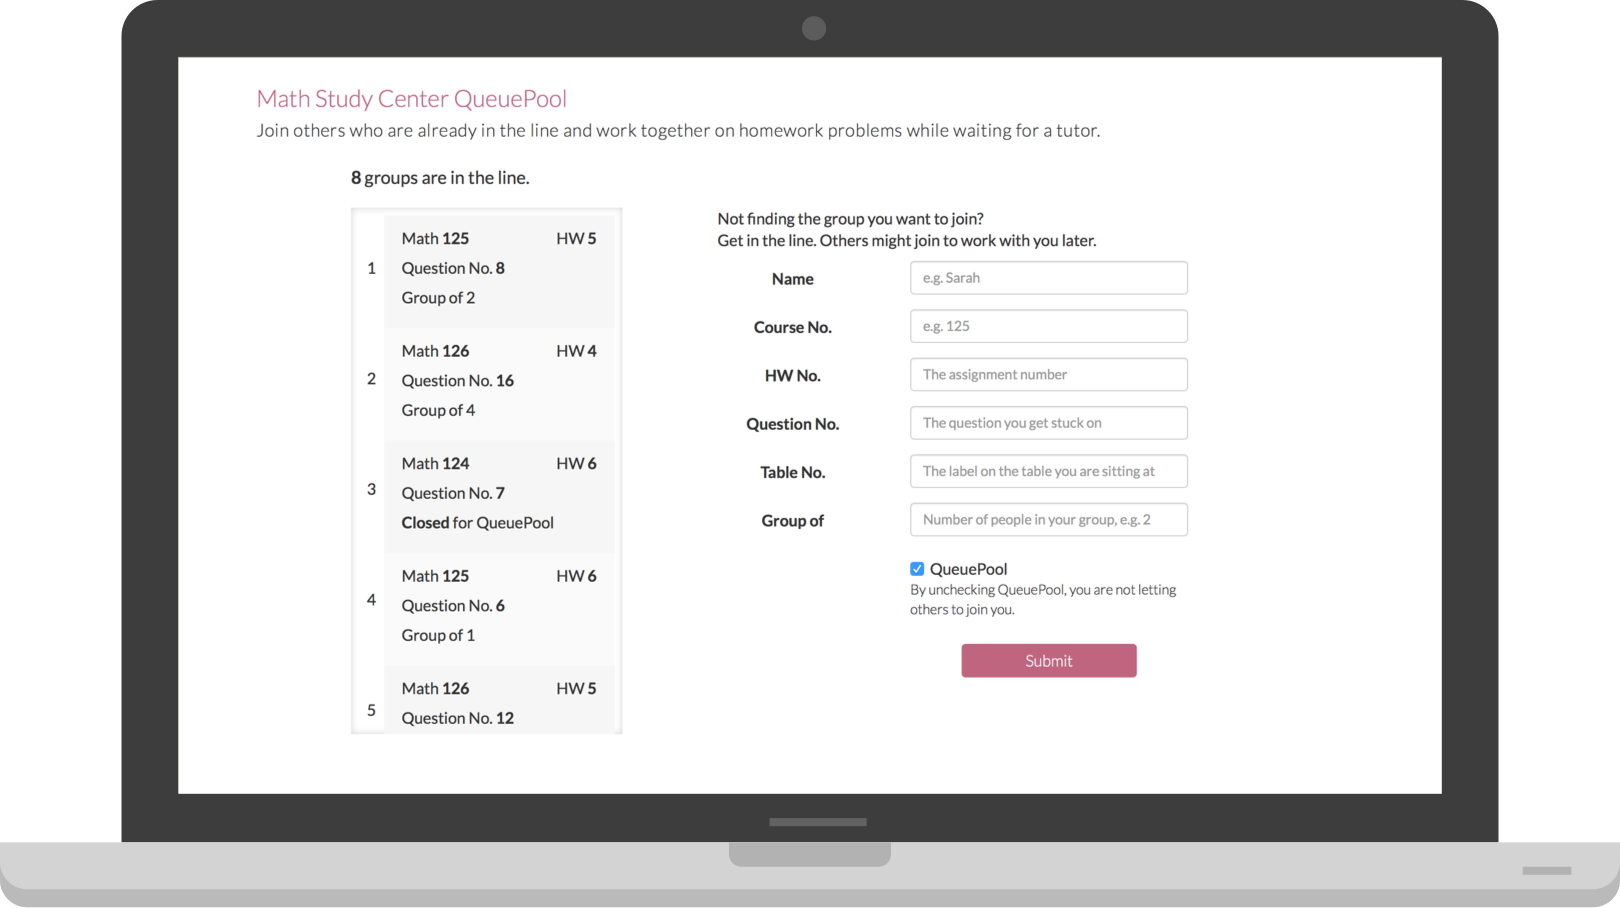
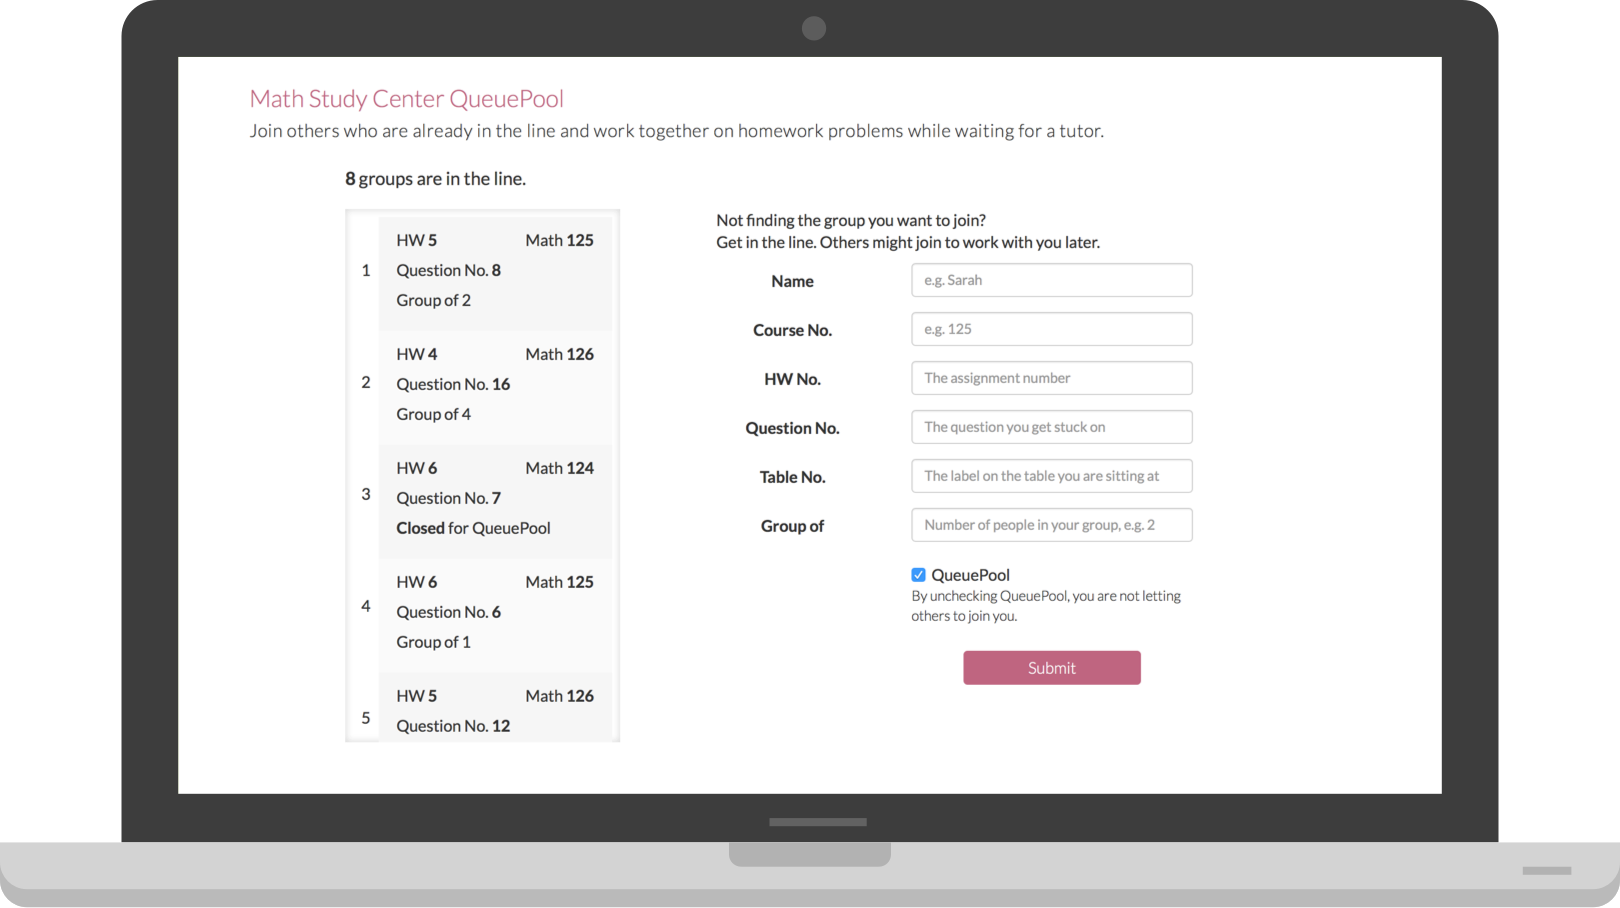
refine ppool

diff --git a/qpool_prototype/queuepool.html b/qpool_prototype/queuepool.html
@@ -70,8 +70,8 @@
                     <li>
                         <div class="line-item">
                                 <div class="line-item-info">
-                                    <p class="info_course">Math <strong>125</strong></p>
                                     <p class="info_hw">HW <strong>5</strong></p>
+                                    <p class="info_course">Math <strong>125</strong></p>
                                     <p class="info_q">Question No. <strong>8</strong></p>
                                     <p class="info_group">Group of 2</p>
                                 </div>
@@ -82,8 +82,8 @@
                     <li>
                         <div class="line-item">
                                 <div class="line-item-info">
-                                    <p class="info_course">Math <strong>126</strong></p>
                                     <p class="info_hw">HW <strong>4</strong></p>
+                                    <p class="info_course">Math <strong>126</strong></p>
                                     <p class="info_q">Question No. <strong>16</strong></p>
                                     <p class="info_group">Group of 4</p>
                                 </div>
@@ -94,8 +94,8 @@
                     <li>
                         <div class="line-item">
                                 <div class="line-item-info">
-                                    <p class="info_course">Math <strong>124</strong></p>
                                     <p class="info_hw">HW <strong>6</strong></p>
+                                    <p class="info_course">Math <strong>124</strong></p>
                                     <p class="info_q">Question No. <strong>7</strong></p>
                                     <p class="info_group"><strong>Closed</strong> for QueuePool</p>
                                 </div>
@@ -104,8 +104,8 @@
                     <li>
                         <div class="line-item">
                                 <div class="line-item-info">
-                                    <p class="info_course">Math <strong>125</strong></p>
                                     <p class="info_hw">HW <strong>6</strong></p>
+                                    <p class="info_course">Math <strong>125</strong></p>
                                     <p class="info_q">Question No. <strong>6</strong></p>
                                     <p class="info_group">Group of 1</p>
                                 </div>
@@ -116,8 +116,8 @@
                     <li>
                         <div class="line-item">
                                 <div class="line-item-info">
-                                    <p class="info_course">Math <strong>126</strong></p>
                                     <p class="info_hw">HW <strong>5</strong></p>
+                                    <p class="info_course">Math <strong>126</strong></p>
                                     <p class="info_q">Question No. <strong>12</strong></p>
                                     <p class="info_group">Group of 2</p>
                                 </div>
@@ -128,8 +128,8 @@
                     <li>
                         <div class="line-item">
                                 <div class="line-item-info">
-                                    <p class="info_course">Math <strong>126</strong></p>
                                     <p class="info_hw">HW <strong>4</strong></p>
+                                    <p class="info_course">Math <strong>126</strong></p>
                                     <p class="info_q">Question No. <strong>11</strong></p>
                                     <p class="info_group"><strong>Closed</strong> for QueuePool</p>
                                 </div>
@@ -138,8 +138,8 @@
                     <li>
                         <div class="line-item">
                                 <div class="line-item-info">
-                                    <p class="info_course">Math <strong>126</strong></p>
                                     <p class="info_hw">HW <strong>5</strong></p>
+                                    <p class="info_course">Math <strong>126</strong></p>
                                     <p class="info_q">Question No. <strong>18</strong></p>
                                     <p class="info_group">Group of 1</p>
                                 </div>
@@ -150,8 +150,8 @@
                     <li>
                         <div class="line-item">
                                 <div class="line-item-info">
-                                    <p class="info_course">Math <strong>124</strong></p>
                                     <p class="info_hw">HW <strong>5</strong></p>
+                                    <p class="info_course">Math <strong>124</strong></p>
                                     <p class="info_q">Question No. <strong>20</strong></p>
                                     <p class="info_group">Group of 1</p>
                                 </div>

diff --git a/qpool.html b/qpool.html
@@ -110,25 +110,21 @@
                     <div class="col-sm-offset-3 col-sm-6 col-xs-12 vpadding-sm">
                         <img class="img-responsive" src="assets/math/lineup.png">
                     </div>
-                </div>  
-				<!--<div class="row hpadding-sm persona">
-                    <h4 class="col-xs-12 vpadding-sm">Persona Scenario</h4>
-                    <div class="col-xs-12 vpadding-sm">
-                        <p>Sally is a freshman at University of Washington. She is taking MATH 124, Intro to Calculus.</p>
-                    </div>
-                    <div class="col-xs-12 hpadding-sm vpadding-sm">
-                        <img class="img-responsive center" src="assets/math/qpool_scenario1.png">
-                        <img class="img-responsive center" src="assets/math/qpool_scenario2.png">
-                    </div>
-				</div>-->
+                </div>
             </div>
 		</section>
       
         <section class="vpadding">
             <div class="container-fluid">
                 <div class="row">
-                    <div class="col-sm-offset-1 col-sm-10 col-xs-12 vpadding-sm">
-                        <p>We presented the redesign on World Usability Day 2014 at University of Washington. Fascinated by the topic of our presentation, many UW students stopped by and provided helpful feedbacks on our design. Most feedbacks were around the level of control being too little. They suggested being passively grouped with others by the system would not significantly make working together easier. It's a rare case that one can find two persons getting stuck on an exact same homework problem around the same time. Therefore, we refined the design to address the issue, advocating for a more well-informed and self-directed experience.</p>
+                    <div class="col-sm-offset-1 col-sm-5 vpadding-sm hpadding-sm">
+                        <img class="img-responsive" src="assets/math/mockup1.png">
+                    </div>
+                    <div class="col-sm-5 vpadding-sm hpadding-sm">
+                        <img class="img-responsive" src="assets/math/mockup2.png">
+                    </div>
+                    <div class="col-sm-offset-1 col-sm-10 col-xs-12 vpadding-sm hpadding-sm">
+                        <p>We presented the redesign on World Usability Day 2014 at University of Washington. Fascinated by the topic of our presentation, many UW students stopped by and provided helpful feedbacks on our design. Many of them suggested being passively grouped with others by the system would not significantly make working together easier. It's a rare case that one can find two persons getting stuck on an exact same homework problem around the same time. Therefore, we refined the design to address the issue, advocating for a more autonomous experience.</p>
                     </div>
                 </div>
             </div>
@@ -136,10 +132,17 @@
         
         <section class="vpadding prototype">
             <div class="container-fluid">
+                <div class="row">
+                    <h2 class="col-xs-12 vpadding-sm">Be better informed.</h2>
+                    <h4 class="col-xs-12 vpadding-sm">A more autonomous experience requires more provided information.</h4>
+                    <div class="col-sm-offset-1 col-sm-10 col-xs-12 hpadding-sm vpadding-sm">
+                        <p>The scrollable list on the left provides enough information of each group in line so that students can decide if they want to work together with one of those groups. We learnt that students are not necessarily looking for others who are working on the exact same problem as they do, but still would like to join someone who are working on the same homework assignment. Thus students identify groups they would consider joining by course number and homework number.</p>
+					</div>
+                </div>
                 <div class="row prototype_thm">
-                       
-                    <div class="col-sm-offset-2 col-sm-8 col-xs-offset-1 col-xs-10 hpadding-lg vpadding-sm">
-                        <a href=""><img class="img-responsive" src="assets/math/prototype.png"></a>
+                    <div class="col-sm-offset-2 col-sm-8 col-xs-offset-1 col-xs-10 vpadding-sm">
+                        <a href="qpool_prototype/queuepool.html"><h5 class="links hpadding-sm">Interactive Prototype</h5>
+                        <img class="img-responsive" src="assets/math/prototype.png"></a>
                     </div>
                 </div>
             </div>

diff --git a/pm.html b/pm.html
@@ -50,7 +50,7 @@
 				<div class="row">
 					<div class="col-sm-4 hpadding-sm vpadding-sm">
 						<h5>Overview</h5>
-						<p>I worked in team with five developers and two designers to create a web application MVP for the <a href="">Small Data Lab</a> at Cornell Tech.</p>
+						<p>I worked in team with five developers and two designers to create a web application MVP for the <a href="http://smalldata.io/">Small Data Lab</a> at Cornell Tech.</p>
 					</div>
 					<div class="col-sm-4 vpadding-sm hpadding-sm overview_role">
 						<h5>My role</h5>
@@ -99,6 +99,23 @@
 			</div>
 		</section>
      
+        <section class="vpadding arch">
+			<div class="container-fluid">
+                <div class="row">
+                   <div class="col-md-offset-1 col-md-5 col-xs-12 vpadding-sm">
+                       <h2 class="col-xs-12">Data-driven Interface</h2>
+                    <p class="hpadding-sm col-xs-12">To avoid overwhelming the user with a smaterring of visualizations, we organized the page based on hierachy of information. On top of the page is a general view of the development progress, sided by a highlight of tasks due recently. Followed up are supporting contents, which are more detailed and informative.</p>
+                   </div>
+                   <div class="col-md-4 col-xs-12 vpadding-sm">
+                      <div class="img_frame">
+                       <img class="img-responsive" src="assets/pmapp/fullpage.png">
+                       <img class="img-responsive" src="assets/pmapp/layout.png">
+                       </div>
+                   </div>
+                </div> 
+            </div>
+		</section>
+       
         <section class="vpadding">
 			<div class="container-fluid">
                 <div class="row">
@@ -106,14 +123,14 @@
                     <h2 class="col-xs-12 vpadding-sm">Color the information.</h2>
                 </div>
                 <div class="row features">
-                    <div class="col-md-6 col-lg-offset-1 col-lg-5 col-xs-12 vpadding-sm" data-index="1">
+                    <div class="col-md-6 col-lg-offset-1 col-lg-5 col-xs-12 vpadding-sm">
                            <p class="hpadding-sm col-xs-12"><span class="strong">Color label the progress. </span>Color can intuitively show how a project is going. Green means everything is on track; Yellow is reminder of slow progress; Red gives warning that the actual progress is falling too much behind.</p>
                         <div class="img_frame">
                             <img class="img-responsive margin-dv" src="assets/pmapp/screen1bw.png">
                             <img class="img-responsive margin-dv colored" src="assets/pmapp/screen1.png">
                         </div>
                     </div>
-                    <div class="col-md-6 col-lg-5 col-xs-12 vpadding-sm" data-index="2">
+                    <div class="col-md-6 col-lg-5 col-xs-12 vpadding-sm">
                             <p class="hpadding-sm col-xs-12"><span class="strong">Highlight delayed tasks. </span>Among the upcoming dues, tasks which are falling behind deadlines are highlited in red, make it easy to identify where the problem/difficulty is comimg from.</p>
                            <div class="img_frame">
                                <img class="img-responsive margin-dv" src="assets/pmapp/screen2bw.png">
@@ -128,7 +145,7 @@
             <div class="container-fluid">
                 <div class="row">
                     <div class="col-md-offset-1 col-md-5 hpadding-sm vpadding-sm">
-                        <h3 class="">We Did Concept Mapping</h3>
+                        <h3 class="">We Drew Concept Map</h3>
                         <p class="strong">To help define our product.</p>
                         <p>Before we dived into the design and development, we used concept mapping to identify target users. Drawing the concept map together makes it easy for us share our knowledges with each other. As the main idea branched out, we became more clear about our scope.</p>
                         <p class="strong">To keep everyone on the same page.</p>

diff --git a/css/custom_project.css b/css/custom_project.css
@@ -253,6 +253,10 @@ a {
     }
 }
 
+.pm .arch h2 {
+    text-align: left;
+}
+
 .pm .features .strong {
     color: #1ABC9C;
     font-size: 12.5pt;
@@ -267,14 +271,29 @@ a {
 
 .pm .img_frame {
     position: relative;
+}
+
+.pm .features .img_frame {
     margin-top: 156px;
 }
 
-.pm .features img:nth-of-type(2) {
+.pm .features img:nth-of-type(2), .pm .arch img:nth-of-type(2) {
     position: absolute;
     top: 0;
     left: 0;
 }
+
+/*
+.pm .arch img:nth-of-type(2) {
+    -webkit-transition: opacity .3s;
+    -moz-transition: opacity .3s;
+    -o-transition: opacity .3s;
+    transition: opacity .3s;
+}
+
+.pm .arch img:nth-of-type(2):hover {
+    opacity: 0;
+}*/
 
 .pm .features p, .pm .features img:nth-of-type(2) {
     opacity: 0;

diff --git a/qpool_prototype/queuepool.css b/qpool_prototype/queuepool.css
@@ -91,11 +91,11 @@ li {
     background-color: #fafafa;
 }
 
-.info_course {
+.info_hw {
     float: left;
 }
 
-.info_hw {
+.info_course {
     float: right;
 }
 
